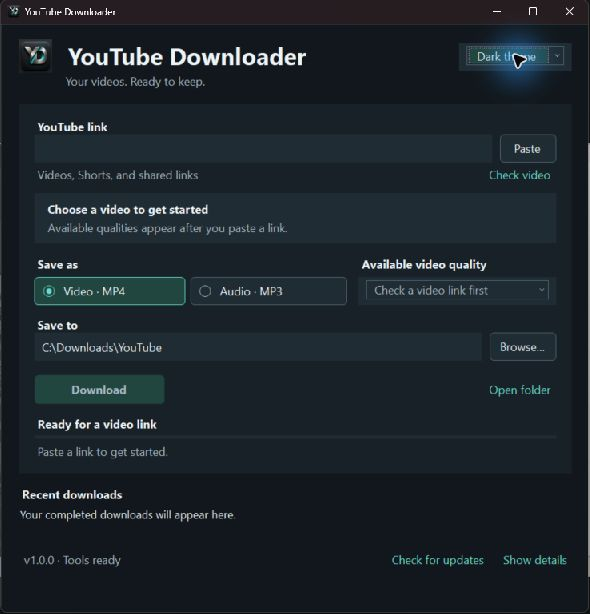
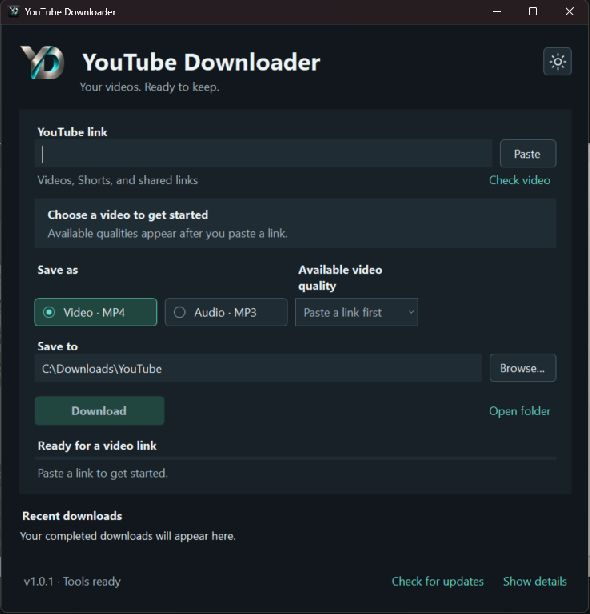
Refine theme toggle, transparent branding, and equal format controls

diff --git a/src/App.cs b/src/App.cs
@@ -21,7 +21,8 @@ namespace YouTubeDownloader {
     }
     public sealed class SavedState {
         public string Folder;
-        public string Theme = "Light";
+        public string Theme = "Dark";
+        public bool ThemeSelected;
         public int Format, Quality;
         public List<string> Recent = new List<string>();
     }
@@ -33,7 +34,9 @@ namespace YouTubeDownloader {
         private Color Accent { get { return colors.Accent; } }
         private Color Paper { get { return colors.Page; } }
         private readonly TextBox url=new TextBox(), folder=new TextBox(), log=new TextBox();
-        private readonly ThemeCombo quality=new ThemeCombo(), theme=new ThemeCombo();
+        private readonly ThemeCombo quality=new ThemeCombo();
+        private readonly ThemeSwitch theme=new ThemeSwitch();
+        private readonly ToolTip themeTip=new ToolTip();
         private readonly FormatChoice video=new FormatChoice(), audio=new FormatChoice();
         private readonly ThemeButton paste=new ThemeButton(), check=new ThemeButton(), browse=new ThemeButton(), download=new ThemeButton(), cancel=new ThemeButton(), openFolder=new ThemeButton(), openFile=new ThemeButton(), details=new ThemeButton(), update=new ThemeButton();
         private readonly Label title=new Label(), subtitle=new Label(), stage=new Label(), progressDetail=new Label(), qualityLabel=new Label(), toolsStatus=new Label();
@@ -60,7 +63,7 @@ namespace YouTubeDownloader {
             Text="YouTube Downloader"; StartPosition=FormStartPosition.CenterScreen; ClientSize=new Size(920,920); MinimumSize=new Size(820,800);
             Font=new Font("Segoe UI",10.5f); BackColor=Paper; ForeColor=Ink; AutoScaleMode=AutoScaleMode.Dpi;
             tools=ToolSet.Discover(); engine=new DownloadEngine(tools); state=LoadState();
-            colors=Palette.For(state.Theme=="Dark");
+            colors=Palette.For(!state.ThemeSelected || state.Theme=="Dark");
             using(var logoStream=Assembly.GetExecutingAssembly().GetManifestResourceStream("YouTubeDownloader.Logo")) {
                 if(logoStream!=null) using(var original=Image.FromStream(logoStream)) brandLogo=new Bitmap(original);
             }
@@ -73,7 +76,7 @@ namespace YouTubeDownloader {
             engine.Log += text => SafeUi(delegate { AppendLog(text); });
             FormClosing += OnClosing;
             Shown += async delegate { ApplyTitleBarTheme(); url.Focus(); await CheckUpdateAsync(false); };
-            FormClosed += delegate { if(brandLogo!=null) brandLogo.Dispose(); };
+            FormClosed += delegate { if(brandLogo!=null) brandLogo.Dispose(); themeTip.Dispose(); };
         }
         private Label LabelFor(string text) { return new Label { Text=text,AutoSize=true,ForeColor=Ink,Font=new Font(Font,FontStyle.Bold),Margin=new Padding(0,0,0,8) }; }
         private void ConfigureButton(ThemeButton button,string text,bool primary=false) {
@@ -100,15 +103,15 @@ namespace YouTubeDownloader {
             var scroll=new Panel { Dock=DockStyle.Fill,AutoScroll=true,Padding=new Padding(28,24,28,20) };
             content.Dock=DockStyle.Top; content.AutoSize=true; content.ColumnCount=1; content.RowCount=0; content.Margin=new Padding(0); content.ColumnStyles.Add(new ColumnStyle(SizeType.Percent,100)); scroll.Controls.Add(content); Controls.Add(scroll);
             var branding=new TableLayoutPanel { AutoSize=true,ColumnCount=3,RowCount=1,Margin=new Padding(0) };
-            branding.ColumnStyles.Add(new ColumnStyle(SizeType.Absolute,68)); branding.ColumnStyles.Add(new ColumnStyle(SizeType.Percent,100)); branding.ColumnStyles.Add(new ColumnStyle(SizeType.Absolute,176));
-            var logo=new PictureBox { Image=brandLogo,SizeMode=PictureBoxSizeMode.Zoom,Size=new Size(52,52),Margin=new Padding(0,0,16,0),AccessibleName="YouTube Downloader logo",TabStop=false };
-            var wordmark=new TableLayoutPanel { AutoSize=true,ColumnCount=1,RowCount=2,Dock=DockStyle.Fill,Margin=new Padding(0) };
+            branding.ColumnStyles.Add(new ColumnStyle(SizeType.Absolute,90)); branding.ColumnStyles.Add(new ColumnStyle(SizeType.Percent,100)); branding.ColumnStyles.Add(new ColumnStyle(SizeType.Absolute,44));
+            var logo=new PictureBox { Image=brandLogo,SizeMode=PictureBoxSizeMode.Zoom,Size=new Size(72,72),Margin=new Padding(0,0,18,0),AccessibleName="YouTube Downloader logo",TabStop=false };
+            var wordmark=new TableLayoutPanel { AutoSize=true,ColumnCount=1,RowCount=2,Dock=DockStyle.Fill,Margin=new Padding(0),Padding=new Padding(0,8,0,0) };
             wordmark.Controls.Add(new Label { Text="YouTube Downloader",AutoSize=true,Font=new Font("Segoe UI",22f,FontStyle.Bold),Margin=new Padding(0,0,0,2) },0,0);
             wordmark.Controls.Add(new Label { Text="Your videos. Ready to keep.",AutoSize=true,Tag="muted",Margin=new Padding(0) },0,1);
-            theme.DropDownStyle=ComboBoxStyle.DropDownList; theme.AccessibleName="Appearance theme"; theme.Items.AddRange(new object[]{"Light theme","Dark theme"}); theme.SelectedIndex=state.Theme=="Dark" ? 1 : 0;
-            theme.SelectedIndexChanged+=delegate { ApplyTheme(); SaveState(); };
-            var themeField=FieldFor(theme); themeField.Anchor=AnchorStyles.Top|AnchorStyles.Right; themeField.Width=176; themeField.Dock=DockStyle.None; themeField.Margin=new Padding(0,5,0,0);
-            branding.Controls.Add(logo,0,0); branding.Controls.Add(wordmark,1,0); branding.Controls.Add(themeField,2,0); Add(branding,24);
+            theme.Checked=!state.ThemeSelected || state.Theme=="Dark"; theme.Anchor=AnchorStyles.Top|AnchorStyles.Right; theme.Margin=new Padding(0,12,0,0);
+            themeTip.SetToolTip(theme,theme.AccessibleName);
+            theme.CheckedChanged+=delegate { state.ThemeSelected=true; themeTip.SetToolTip(theme,theme.AccessibleName); ApplyTheme(); SaveState(); };
+            branding.Controls.Add(logo,0,0); branding.Controls.Add(wordmark,1,0); branding.Controls.Add(theme,2,0); Add(branding,24);
             var page=content;
             var workspace=new Panel { AutoSize=true,Dock=DockStyle.Fill,Padding=new Padding(24,22,24,22),Margin=new Padding(0),Tag="surface" };
             content=new TableLayoutPanel { AutoSize=true,Dock=DockStyle.Top,ColumnCount=1,RowCount=0,Margin=new Padding(0) }; content.ColumnStyles.Add(new ColumnStyle(SizeType.Percent,100)); workspace.Controls.Add(content);
@@ -133,17 +136,17 @@ namespace YouTubeDownloader {
             title.Text="Choose a video to get started"; title.AutoSize=true; title.MaximumSize=new Size(740,0); title.Font=new Font(Font,FontStyle.Bold); title.Margin=new Padding(0,0,0,4);
             subtitle.Text="Available qualities appear after you paste a link."; subtitle.AutoSize=true; subtitle.MaximumSize=new Size(740,0); subtitle.Tag="muted"; subtitle.Margin=new Padding(0);
             preview.Controls.Add(title,0,0); preview.Controls.Add(subtitle,0,1); Add(preview,20);
-            var settings=new TableLayoutPanel { ColumnCount=2,RowCount=2,AutoSize=true,Dock=DockStyle.Fill,Margin=new Padding(0) };
-            settings.ColumnStyles.Add(new ColumnStyle(SizeType.Percent,60)); settings.ColumnStyles.Add(new ColumnStyle(SizeType.Percent,40));
-            settings.Controls.Add(LabelFor("Save &as"),0,0); qualityLabel.Text="Video &quality"; qualityLabel.AutoSize=true; qualityLabel.Font=new Font(Font,FontStyle.Bold); qualityLabel.Margin=new Padding(18,0,0,8); settings.Controls.Add(qualityLabel,1,0);
-            var formats=new TableLayoutPanel { AutoSize=true,ColumnCount=2,RowCount=1,Dock=DockStyle.Fill,Margin=new Padding(0) }; formats.ColumnStyles.Add(new ColumnStyle(SizeType.Percent,50)); formats.ColumnStyles.Add(new ColumnStyle(SizeType.Percent,50));
-            video.Text="&Video · MP4"; video.AccessibleName="Video MP4"; video.Dock=DockStyle.Fill; video.Margin=new Padding(0,0,8,0);
-            audio.Text="&Audio · MP3"; audio.AccessibleName="Audio MP3"; audio.Dock=DockStyle.Fill; audio.Margin=new Padding(0); formats.Controls.Add(video,0,0); formats.Controls.Add(audio,1,0);
+            var settings=new TableLayoutPanel { ColumnCount=5,RowCount=2,AutoSize=true,Dock=DockStyle.Fill,Margin=new Padding(0),MaximumSize=new Size(600,0) };
+            for(int column=0;column<5;column++) settings.ColumnStyles.Add(column%2==0 ? new ColumnStyle(SizeType.Percent,100f/3f) : new ColumnStyle(SizeType.Absolute,12));
+            var formatLabel=LabelFor("Save &as"); settings.Controls.Add(formatLabel,0,0); settings.SetColumnSpan(formatLabel,3);
+            qualityLabel.Text="Video &quality"; qualityLabel.AutoSize=true; qualityLabel.Font=new Font(Font,FontStyle.Bold); qualityLabel.Margin=new Padding(0,0,0,8); settings.Controls.Add(qualityLabel,4,0);
+            video.Text="&Video · MP4"; video.AccessibleName="Video MP4"; video.Dock=DockStyle.Fill; video.Margin=new Padding(0);
+            audio.Text="&Audio · MP3"; audio.AccessibleName="Audio MP3"; audio.Dock=DockStyle.Fill; audio.Margin=new Padding(0); settings.Controls.Add(video,0,1); settings.Controls.Add(audio,2,1);
             audio.Checked=state.Format==1; video.Checked=!audio.Checked;
             quality.DropDownStyle=ComboBoxStyle.DropDownList; quality.AccessibleName="Available video quality"; UpdateQualityChoices();
             EventHandler formatChanged=delegate(object sender,EventArgs e) { if(((RadioButton)sender).Checked) { UpdateQualityChoices(); UpdateDownloadEnabled(); SaveState(); } }; video.CheckedChanged+=formatChanged; audio.CheckedChanged+=formatChanged;
             quality.SelectedIndexChanged+=delegate { SaveState(); };
-            var qualityField=FieldFor(quality); qualityField.Margin=new Padding(18,0,0,0); settings.Controls.Add(formats,0,1); settings.Controls.Add(qualityField,1,1); Add(settings,18);
+            quality.Dock=DockStyle.Fill; quality.Margin=new Padding(0); settings.Controls.Add(quality,4,1); Add(settings,18);
             Add(LabelFor("Save &to"),0);
             folder.Text=String.IsNullOrWhiteSpace(state.Folder) ? Path.Combine(Environment.GetFolderPath(Environment.SpecialFolder.UserProfile),"Downloads","YouTube") : state.Folder;
             folder.Font=new Font("Segoe UI",11f); folder.AccessibleName="Save folder"; folder.TextChanged+=delegate { SaveState(); };
@@ -171,7 +174,9 @@ namespace YouTubeDownloader {
             Add(Row(toolsStatus,update,details),0);
             log.Visible=false; log.Multiline=true; log.ReadOnly=true; log.ScrollBars=ScrollBars.Vertical; log.Height=130; log.AccessibleName="Download details"; log.Font=new Font("Segoe UI",9f); Add(log,0);
             download.Enabled=false; check.Enabled=tools.Ready; AcceptButton=download;
-            foreach(var box in new[]{quality,theme}) { box.FlatStyle=FlatStyle.Flat; box.DrawMode=DrawMode.OwnerDrawFixed; box.ItemHeight=24; box.DrawItem+=DrawChoice; }
+            quality.FlatStyle=FlatStyle.Flat; quality.DrawMode=DrawMode.OwnerDrawFixed; quality.ItemHeight=38; quality.DrawItem+=DrawChoice;
+            EventHandler alignQualityHeight=delegate { int frame=quality.Height-quality.ItemHeight; if(quality.Height!=video.Height) quality.ItemHeight=Math.Max(1,video.Height-frame); };
+            video.SizeChanged+=alignQualityHeight; quality.HandleCreated+=alignQualityHeight;
             foreach(var box in new[]{url,folder,log}) box.BorderStyle=BorderStyle.None;
             Resize+=delegate { int available=Math.Max(480,scroll.ClientSize.Width-104); title.MaximumSize=new Size(available-32,0); subtitle.MaximumSize=new Size(available-32,0); progressDetail.MaximumSize=new Size(available,0); };
         }
@@ -229,7 +234,7 @@ namespace YouTubeDownloader {
             if(IsAudio) { qualityLabel.Text="MP3 encoding bitrate"; quality.Items.Add("192 kbps"); quality.SelectedIndex=0; quality.Enabled=false; }
             else {
                 qualityLabel.Text="Available video &quality";
-                if(checkedInfo==null || checkedInfo.Qualities.Count==0) { quality.Items.Add("Check a video link first"); quality.SelectedIndex=0; quality.Enabled=false; }
+                if(checkedInfo==null || checkedInfo.Qualities.Count==0) { quality.Items.Add("Paste a link first"); quality.SelectedIndex=0; quality.Enabled=false; }
                 else { foreach(var q in checkedInfo.Qualities) quality.Items.Add(q); quality.SelectedIndex=AvailableFormats.RecommendedIndex(checkedInfo.Qualities); quality.Enabled=!busy && !installingUpdate; }
             }
         }
@@ -248,13 +253,13 @@ namespace YouTubeDownloader {
         private void OpenCompletedFile() { try { if(lastFile==null || !File.Exists(lastFile)) { SetStatus("File is not available","The file may have been moved or deleted.",true); return; } Process.Start(new ProcessStartInfo(lastFile) { UseShellExecute=true }); } catch(Exception ex) { SetStatus("Could not open file",ex.Message,true); } }
         private void AddRecent(string file) { if(state.Recent==null) state.Recent=new List<string>(); state.Recent.RemoveAll(x=>String.Equals(x,file,StringComparison.OrdinalIgnoreCase)); state.Recent.Insert(0,file); state.Recent=state.Recent.Take(5).ToList(); recent.Items.Clear(); foreach(string path in state.Recent) recent.Items.Add(Path.GetFileName(path)); SaveState(); }
         private SavedState LoadState() { try { if(File.Exists(statePath)) return new JavaScriptSerializer().Deserialize<SavedState>(File.ReadAllText(statePath)) ?? new SavedState(); } catch { } return new SavedState(); }
-        private void SaveState() { if(initializing || state==null) return; try { state.Folder=folder.Text; state.Theme=theme.SelectedIndex==1 ? "Dark" : "Light"; state.Format=IsAudio ? 1 : 0; state.Quality=quality.SelectedIndex; File.WriteAllText(statePath,new JavaScriptSerializer().Serialize(state)); } catch { toolsStatus.Text="Settings could not be saved"; } }
+        private void SaveState() { if(initializing || state==null) return; try { state.Folder=folder.Text; state.Theme=theme.Checked ? "Dark" : "Light"; state.Format=IsAudio ? 1 : 0; state.Quality=quality.SelectedIndex; File.WriteAllText(statePath,new JavaScriptSerializer().Serialize(state)); } catch { toolsStatus.Text="Settings could not be saved"; } }
         private void ApplyTheme() {
-            colors=Palette.For(theme.SelectedIndex==1); SuspendLayout(); ApplyColors(this,colors.Page);
+            colors=Palette.For(theme.Checked); SuspendLayout(); ApplyColors(this,colors.Page);
             stage.ForeColor=statusMood==1 ? colors.Error : (statusMood==2 ? Accent : Ink); progressDetail.ForeColor=statusMood==1 ? colors.Error : Muted;
             ApplyTitleBarTheme(); ResumeLayout(true); Invalidate(true);
         }
-        private void ApplyTitleBarTheme() { if(!IsHandleCreated) return; try { int dark=theme.SelectedIndex==1 ? 1 : 0; DwmSetWindowAttribute(Handle,20,ref dark,4); } catch(DllNotFoundException) { } catch(EntryPointNotFoundException) { } }
+        private void ApplyTitleBarTheme() { if(!IsHandleCreated) return; try { int dark=theme.Checked ? 1 : 0; DwmSetWindowAttribute(Handle,20,ref dark,4); } catch(DllNotFoundException) { } catch(EntryPointNotFoundException) { } }
         private void ApplyColors(Control item,Color inherited) {
             Color back=(string)item.Tag=="surface" ? colors.Surface : ((string)item.Tag=="field" ? colors.Field : inherited);
             item.BackColor=back; item.ForeColor=(string)item.Tag=="muted" ? Muted : Ink;
@@ -262,6 +267,7 @@ namespace YouTubeDownloader {
             var choice=item as FormatChoice; if(choice!=null) { choice.Colors=colors; choice.Invalidate(); }
             var meter=item as ThemeProgress; if(meter!=null) { meter.Colors=colors; meter.Invalidate(); }
             var combo=item as ThemeCombo; if(combo!=null) { combo.Colors=colors; combo.Invalidate(); }
+            var toggle=item as ThemeSwitch; if(toggle!=null) { toggle.Colors=colors; toggle.Invalidate(); }
             if(item is TextBox || item is ComboBox || item is ListBox) { item.BackColor=item is ListBox ? colors.Page : colors.Field; item.ForeColor=Ink; }
             foreach(Control child in item.Controls) ApplyColors(child,back);
         }

diff --git a/src/Theme.cs b/src/Theme.cs
@@ -99,6 +99,37 @@ namespace YouTubeDownloader {
         protected override void Dispose(bool disposing) { if(disposing) animation.Dispose(); base.Dispose(disposing); }
     }
 
+    internal sealed class ThemeSwitch : CheckBox {
+        public Palette Colors=Palette.For(true);
+        private bool hover;
+        public ThemeSwitch() {
+            Appearance=Appearance.Button; AutoSize=false; Size=new Size(44,44); Cursor=Cursors.Hand;
+            SetStyle(ControlStyles.UserPaint|ControlStyles.AllPaintingInWmPaint|ControlStyles.OptimizedDoubleBuffer|ControlStyles.ResizeRedraw,true);
+            AccessibleName="Switch to light theme";
+        }
+        protected override void OnCheckedChanged(EventArgs e) { AccessibleName=Checked ? "Switch to light theme" : "Switch to dark theme"; Invalidate(); base.OnCheckedChanged(e); }
+        protected override void OnMouseEnter(EventArgs e) { hover=true; Invalidate(); base.OnMouseEnter(e); }
+        protected override void OnMouseLeave(EventArgs e) { hover=false; Invalidate(); base.OnMouseLeave(e); }
+        protected override void OnPaint(PaintEventArgs e) {
+            var p=Colors; e.Graphics.Clear(Parent==null ? p.Page : Parent.BackColor); e.Graphics.SmoothingMode=SmoothingMode.AntiAlias;
+            Color fill=hover ? p.Hover : p.Field;
+            using(var path=Drawing.Rounded(new Rectangle(0,0,Width-1,Height-1),6)) {
+                using(var brush=new SolidBrush(fill)) e.Graphics.FillPath(brush,path);
+                using(var pen=new Pen(p.Border)) e.Graphics.DrawPath(pen,path);
+            }
+            float x=Width/2f,y=Height/2f;
+            if(Checked) using(var pen=new Pen(p.Ink,1.8f)) {
+                e.Graphics.DrawEllipse(pen,x-5,y-5,10,10);
+                for(int ray=0;ray<8;ray++) { double a=ray*Math.PI/4; e.Graphics.DrawLine(pen,x+(float)Math.Cos(a)*9,y+(float)Math.Sin(a)*9,x+(float)Math.Cos(a)*13,y+(float)Math.Sin(a)*13); }
+            }
+            else {
+                using(var brush=new SolidBrush(p.Ink)) e.Graphics.FillEllipse(brush,x-10,y-10,20,20);
+                using(var brush=new SolidBrush(fill)) e.Graphics.FillEllipse(brush,x-3,y-13,19,19);
+            }
+            if(Focused && ShowFocusCues) ControlPaint.DrawFocusRectangle(e.Graphics,new Rectangle(4,4,Width-9,Height-9),p.Ink,fill);
+        }
+    }
+
     internal sealed class ThemeCombo : ComboBox {
         public Palette Colors=Palette.For(false);
         protected override void WndProc(ref Message message) {

diff --git a/tests/InterfaceChecks.cs b/tests/InterfaceChecks.cs
@@ -16,11 +16,13 @@ internal static class InterfaceChecks {
         try {
             File.WriteAllText(path,"{\"Folder\":\"C:\\\\Downloads\\\\YouTube\",\"LastUrl\":\"https://youtu.be/jNQXAC9IVRw\",\"Format\":0,\"Recent\":[]}");
             using(var window=new MainWindow()) {
-                var url=Field<TextBox>(window,"url"); var theme=Field<ComboBox>(window,"theme");
+                var url=Field<TextBox>(window,"url"); var theme=Field<CheckBox>(window,"theme");
                 var video=Field<RadioButton>(window,"video"); var audio=Field<RadioButton>(window,"audio"); var quality=Field<ComboBox>(window,"quality");
                 Assert(url.Text=="","A legacy saved link is not restored");
-                var light=window.BackColor; theme.SelectedIndex=1;
-                Assert(window.BackColor!=light,"Dark theme changes the app palette");
+                Assert(theme.Checked,"Dark is the default theme");
+                var dark=window.BackColor; theme.Checked=false;
+                Assert(window.BackColor!=dark,"Icon toggle switches to light theme"); theme.Checked=true;
+                Assert(window.BackColor==dark,"Icon toggle switches back to dark theme");
                 Assert(File.ReadAllText(path).Contains("\"Theme\":\"Dark\""),"Theme preference is saved");
                 audio.Checked=true;
                 Assert(audio.Checked && !video.Checked,"MP3 radio selection is exclusive");
@@ -50,7 +52,7 @@ internal static class InterfaceChecks {
             }
             using(var reopened=new MainWindow()) {
                 Assert(Field<TextBox>(reopened,"url").Text=="","Restart always has an empty link");
-                Assert(Field<ComboBox>(reopened,"theme").SelectedIndex==1,"Restart restores dark theme");
+                Assert(Field<CheckBox>(reopened,"theme").Checked,"Restart restores dark theme");
             }
             string prefix=AppUpdates.Repository+"/releases/download/v1.1.0/";
             string release="{\"tag_name\":\"v1.1.0\",\"draft\":false,\"prerelease\":false,\"assets\":[{\"name\":\"YouTubeDownloader-v1.1.0-windows-x64.zip\",\"browser_download_url\":\""+prefix+"app.zip\"},{\"name\":\"checksums.json\",\"browser_download_url\":\""+prefix+"checksums.json\"}]}";

diff --git a/src/AssemblyInfo.cs b/src/AssemblyInfo.cs
@@ -6,6 +6,6 @@ using System.Runtime.InteropServices;
 [assembly: AssemblyCompany("ZiadHassanein")]
 [assembly: AssemblyProduct("YouTube Downloader")]
 [assembly: AssemblyCopyright("Copyright © 2026 ZiadHassanein")]
-[assembly: AssemblyVersion("1.0.0.0")]
-[assembly: AssemblyFileVersion("1.0.0.0")]
+[assembly: AssemblyVersion("1.0.1.0")]
+[assembly: AssemblyFileVersion("1.0.1.0")]
 [assembly: ComVisible(false)]

diff --git a/README.md b/README.md
@@ -12,7 +12,7 @@ A desktop app for saving YouTube videos as MP4 or extracting MP3 audio. Paste a 
 
 ## Get started
 
-1. Download `YouTubeDownloader-v1.0.0-windows-x64.zip` from the release page.
+1. Download `YouTubeDownloader-v1.0.1-windows-x64.zip` from the release page.
 2. Extract the ZIP to a writable folder.
 3. If yt-dlp, FFmpeg, or Deno are missing, run `SetupTools.cmd` once. It installs only missing tools through Windows Package Manager.
 4. Open `YouTubeDownloader.exe`, paste a video link, and wait for its available qualities to appear.
@@ -29,8 +29,9 @@ Windows 10/11 x64 and .NET Framework 4.8 are required. Windows 11 includes the r
 - Progress, speed, cancellation, and resumable partial files.
 - Separate video filenames for different quality selections.
 - Existing completed files are preserved.
-- Light and dark themes, with your choice remembered.
-- Styled MP4 / MP3 radio buttons.
+- Dark by default, with a sun/moon icon toggle and your theme choice remembered.
+- Styled MP4 / MP3 radio buttons and a matching quality control.
+- A larger transparent YD mark in the app header.
 - Link cleared after a successful download; every launch starts with an empty link.
 - Recent-download history and saved preferences.
 - Checks GitHub for a new app version on launch; install it from inside the app.
